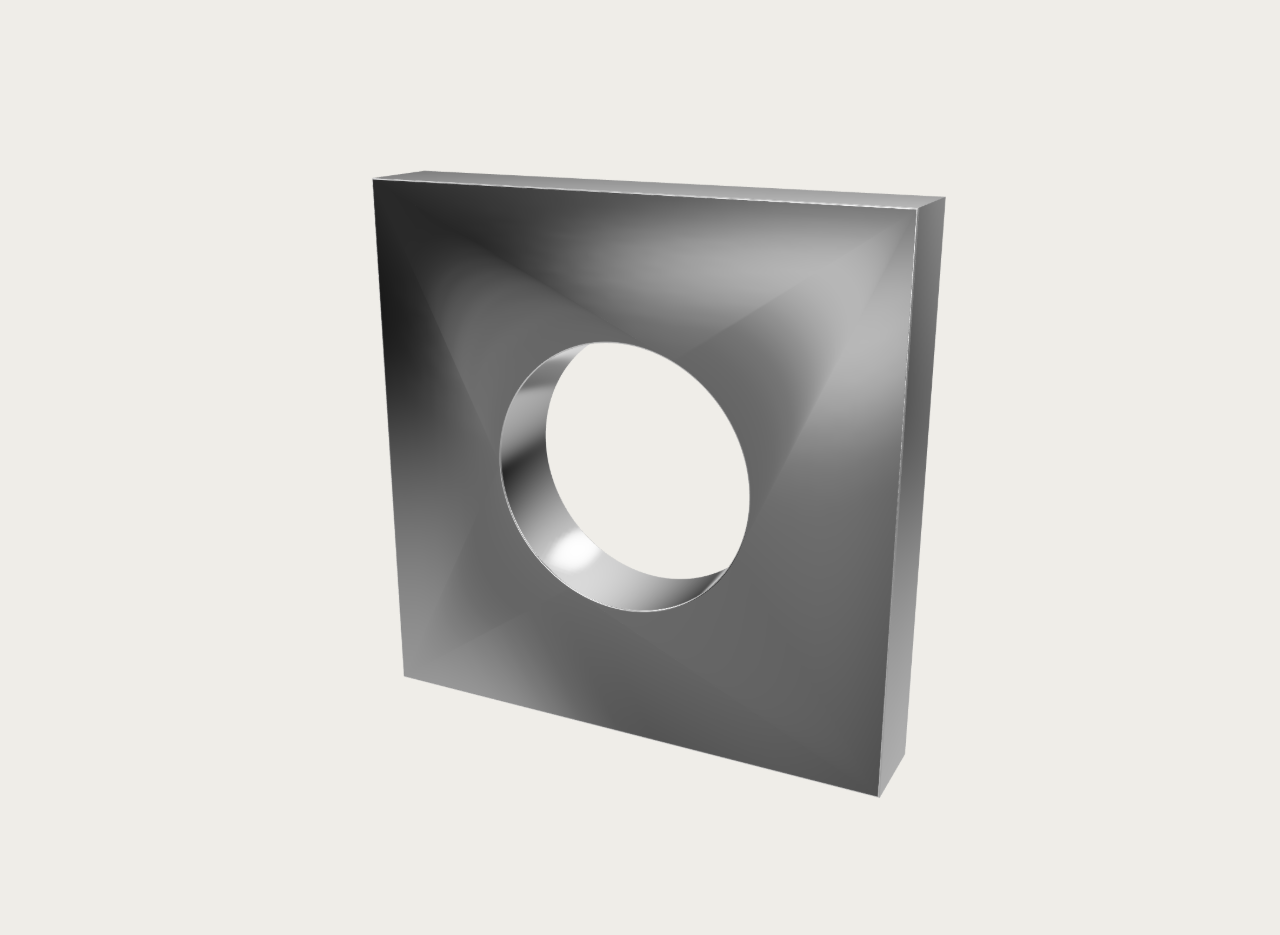
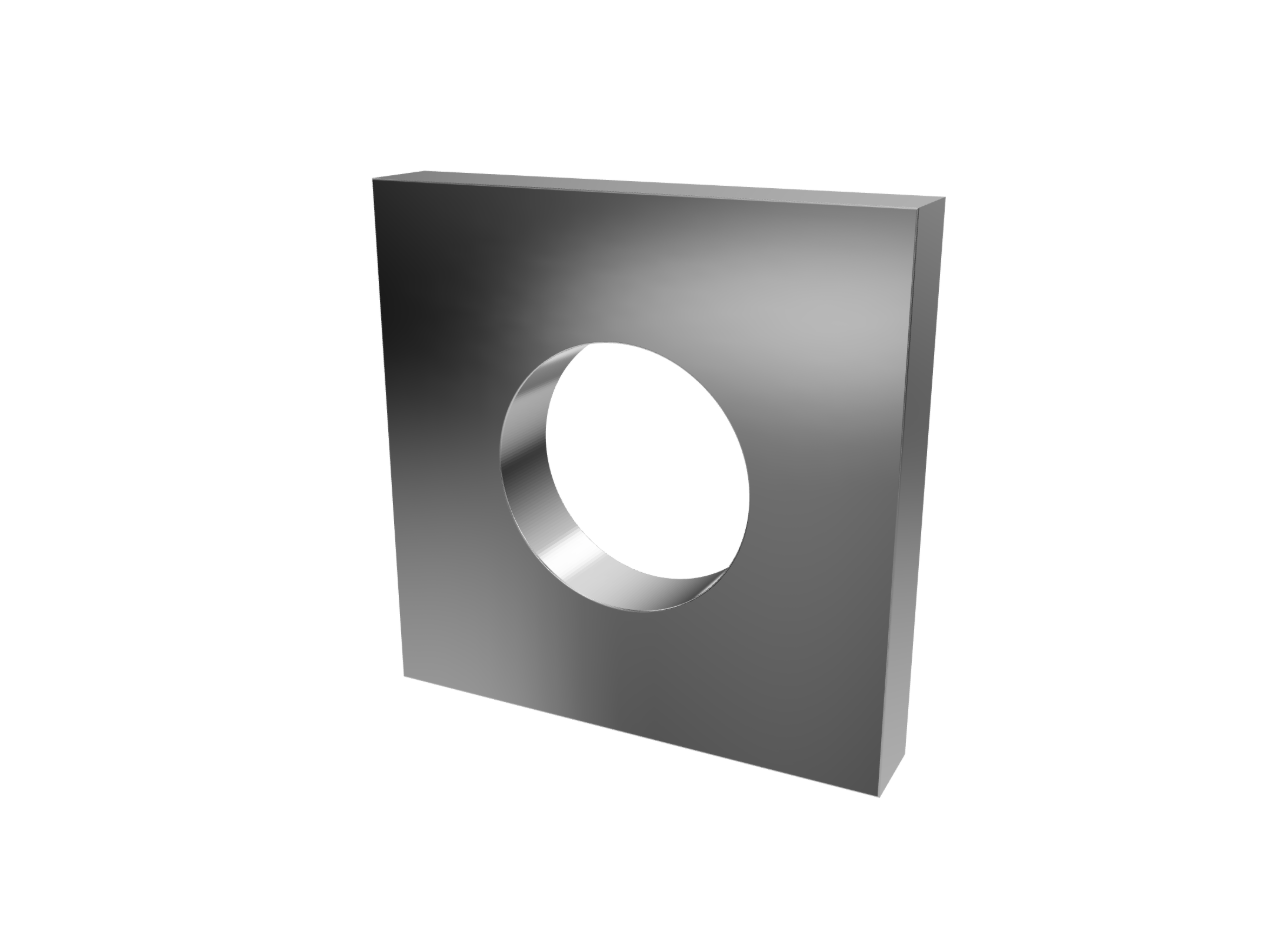
文档收尾：SVG立体 81/81、九工具中性化复验 310/310，刷新白底封面
- README：extrude3d 行改为「已通过浏览器验收（81 项）」，移除背景图片
  「待 Codex 复验/待执行」等过时表述；补齐 Codex 独立复跑总数与分项。
- tests/README：本轮状态改为 310/310 PASS 摘要（extrude3d 81 / home 63 / …）。
- CHANGELOG：第六轮压缩为 7 条要点，补实际总数 310、九工具、SVG立体 81、
  刷新后的默认白底真实封面；验证改为已完成，不再写「待 Codex 执行」。
- 订正「纹理 8 份原件逐字节未改」的宽泛表述：整合副本仅 style.css 改主题，
  7 份非样式源码逐字节一致，_source_snapshot 8 份根原件哈希未改（历史条目不动）。
- public/assets/covers/extrude3d.png：Codex 用既有脚本产出的默认纯白背景
  真实 PNG 导出（1280×935，约 169 KB），直接纳入本提交，不重跑浏览器。

未新增文档 / 源码 / 测试改动，未启动浏览器；npm run check 42/42、npm run build 通过。

diff --git a/CHANGELOG.md b/CHANGELOG.md
@@ -5,24 +5,14 @@
 ## [未发布] integration/first-batch · 第一轮批量整合
 
 ### 第六轮：SVG立体背景图片、全站中性化与 3D 冻结（本批）
-- SVG立体（`tools/extrude3d`）新增背景图片（用户专项授权）：材质区之外上传本地 PNG / JPEG / WebP
-  （≤10 MiB、单边 ≤4096 像素，白名单 + 实际解码校验），接到 three 原生 `scene.background` 贴图，
-  用贴图的 `repeat` / `offset`（原生 uv 变换矩阵）按视口与原图宽高比做**居中 cover**；
-  新增一个 1×–3× 的基础缩放（默认 1×，可缩回 1×）。不新增依赖 / 自定义着色器 / UV 算法。
-- 背景图片与表面贴图各自独立；切换材质 / SVG 后背景保留；透明背景开启时预览与导出都抑制背景图片，
-  关闭后恢复同一张保留的图片；移除背景回到所选纯色背景（默认纯色由米色 `#efede8` 改为纯白 `#ffffff`）。
-  MIME / 体积 / 解码 / 尺寸失败与「最新一次选择无效」都保留原背景；加载序列号守卫异步回调与加载中点移除，
-  并及时释放 blob URL 与被替换贴图。导出 PNG 真实包含当前背景（不是 CSS 背景）。
-- 全站工具界面与共享返回链接统一为**白 / 黑 / 中性灰**：`extrude3d`、`image-to-pixel`、`shaders-logo` /
-  `shaders-bg` / `shaders-halftone` 的暖白与灰褐变量、`pixelit` 的金 / 赭 / 墨绿、`psychos` 的品红 / 宝蓝强调色
-  与节点 / 连线色、`texture` 的墨绿主题，全部按相同亮度层级改为中性灰；`public/favicon.ico` 与各工具
-  data-URI favicon 的米色改为纯白 / 纯黑。保留布局、功能、画布 / 素材 / 材质调色板与 9 张真实封面不动。
-- 字节校验：`tools/texture` 本批只改 `style.css` 主题，其余 7 份上游源码逐字节一致；
-  `scripts/check.mjs` 显式登记并校验 `_source_snapshot` 的 8 份根原件哈希未被改动，
-  不通过修改快照来「凑」一致，也不删除原有字节基线检查。
-- 冻结：背景图片落地后 **3D 扩展冻结**（不再新增 3D 功能）；后续 UI 一律白 / 黑 / 中性灰。
-- 验证：纯 Node `npm run check`（42 项）、`npm test`、`npm run build`（含 `tools/psychos`）通过；
-  浏览器验收（含新增背景断言）待 Codex 执行。
+- extrude3d 新增背景图片（用户专项授权）：本地 PNG / JPEG / WebP（≤10 MiB、单边 ≤4096，白名单 + 实际解码）
+  挂 three 原生 `scene.background`，用 `repeat` / `offset` 按视口做居中 cover，1×–3× 缩放；默认纯色改纯白 `#ffffff`。
+- 背景与表面贴图独立；透明时抑制、关闭后恢复；移除回到所选纯色；失败 / 竞态保留原背景并释放 blob URL 与被替换贴图；导出 PNG 真实含背景。
+- 九工具界面与共享返回链接统一白 / 黑 / 中性灰（含 favicon），保留布局、功能、画布 / 素材 / 材质调色板与 9 张真实封面。
+- 封面：extrude3d 封面刷新为默认白背景的真实 PNG 导出（1280×935，约 169 KB），随本批提交。
+- 字节校验：整合副本仅 `tools/texture/style.css` 改主题，7 份非样式源码逐字节一致；`_source_snapshot` 8 份根原件哈希未改动。
+- 冻结：3D 保持可访问、不再新增 3D 功能；后续 UI 一律白 / 黑 / 中性灰。
+- 验证：`npm run check`（42 项）/ `npm test` / `npm run build` 通过；Codex 独立复跑生产浏览器验收 **310/310 PASS**（SVG立体 81、home 63、ASCII 11、dither 34、pixelit 9、psychos 20、bg 37、half 29、logo 19、texture 7），另审计 9 页可见 UI 0 个非中性色，背景上传 / cover / 缩放 / 导出 PNG / 透明恢复 / 移除 / 竞态全过。
 
 ### 修复与第四 / 第五轮：中文名、基础色表面贴图与导出清屏（Codex 浏览器复验通过）
 - 第四轮名称定稿：首页 12 个入口（9 内置 + 3 外链）用常用中文名，卡片不再拼英文副标题；
